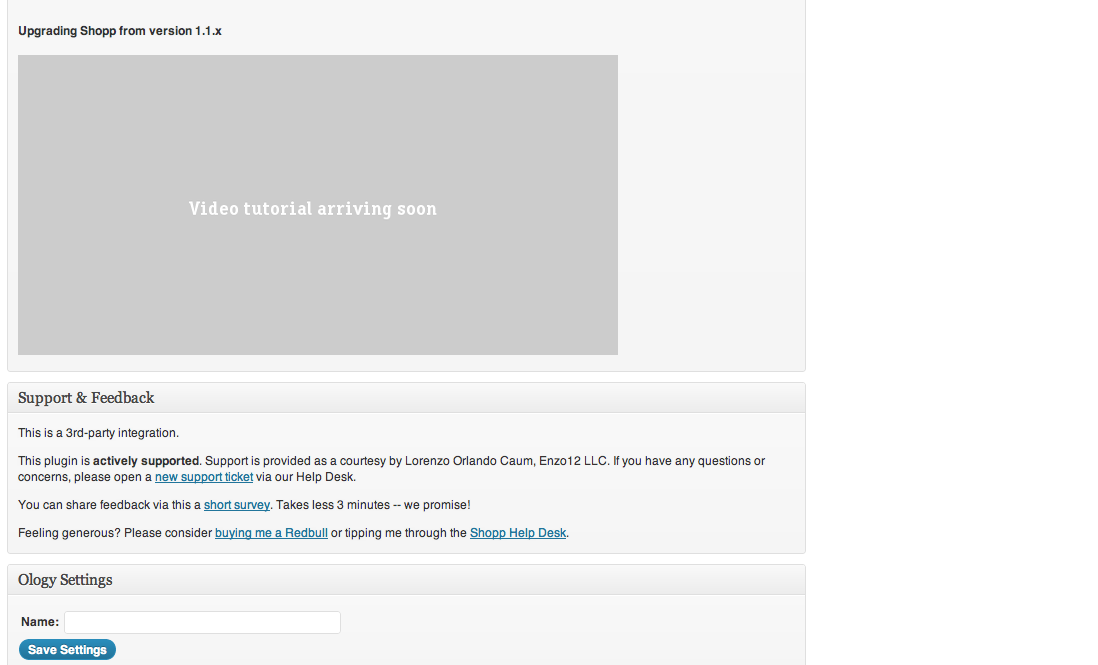
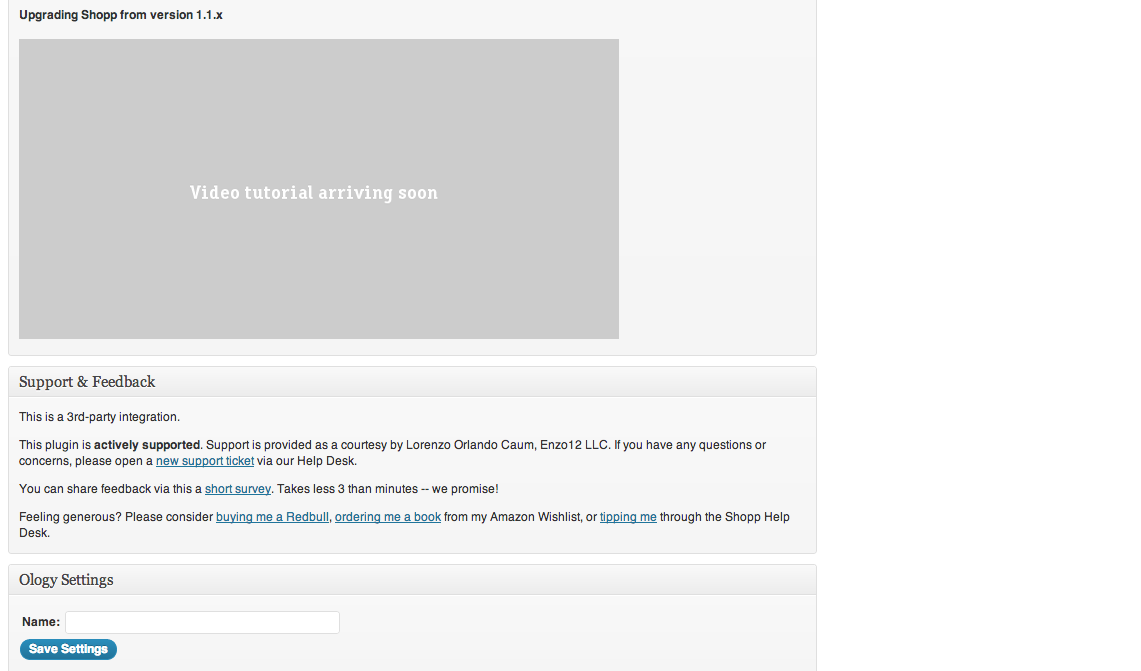
tagging version 1.0.3 of Shopp + Ology
git-svn-id: https://plugins.svn.wordpress.org/shopp-ology/tags/1.0.3@624394 b8457f37-d9ea-0310-8a92-e5e31aec5664

Changed region(s): [[0.0, 0.0, 0.7122, 0.812], [0.0, 0.8421, 0.1239, 0.9925], [0.1548, 0.2707, 0.4026, 0.3308]]

diff --git a/shopp-ology.php b/shopp-ology.php
@@ -2,7 +2,7 @@
 /*
 Plugin Name: Shopp + Ology
 Description: Generate information about your hosting environment to assist with troubleshooting WordPress and Shopp.
-Version: 1.0.2
+Version: 1.0.3
 Plugin URI: http://optimizemyshopp.com
 Author: Lorenzo Orlando Caum, Enzo12 LLC
 Author URI: http://enzo12.com
@@ -42,7 +42,7 @@ class Shopp_Ology {
 	}
 
 	public function init() {
-		wp_enqueue_style( 'shopp-ology-stylesheet', plugins_url( "css/shopp-ology.css", __FILE__ ), array(), '20120725' );
+		wp_enqueue_style( 'shopp-ology-stylesheet', plugins_url( "css/shopp-ology.css", __FILE__ ), array(), '20121101' );
 		
 		add_action('admin_menu', array($this, 'admin_menu'));
 	}
@@ -76,11 +76,10 @@ class Shopp_Ology {
 			<div id="shopp-ology-introduction" class="postbox">
 				<h3 class="hndle"><span>Introduction</span></h3>
 				<div class="inside">
-					<p>This plugin adds an option for generating information about your <a href="http://optimizemyshopp.com/go/shopp/" title="Learn more about Shopp">Shopp</a> and its hosting environment. You can then share this information with your web developer, Shopp consultant, or responding Shopp agent on the Help Desk.</p> 
+					<p>This plugin adds an option for generating information about your <a href="http://optimizemyshopp.com/go/shopp/" title="Learn more about Shopp">Shopp</a> and its hosting environment. You can then share this information with your web developer, Shopp consultant, or responding Shopp team member on the Help Desk.</p>
 					<strong>Acknowledgements</strong>
 					<br />
-					<p>Credit to <a href="http://optimizemyshopp.com/go/adamsewell/" title="Get in touch with Adam">Adam Sewell</a>, <a href="http://optimizemyshopp.com/go/chrisrunnells/" title="Get in touch with Chris">Chris Runnells</a>, and <a href="http://optimizemyshopp.com/go/jonathandavis/" title="Get in touch with Jonathan Davis">Jonathan Davis</a> who answered my questions on how to retrieve certain data via PHP.</p>
-					<p>Credit to Barry Hughes who identified errors in this plugin and developed the groundwork for extending it further. <a href="http://optimizemyshopp.com/go/barryhughes/" title="Get in touch with Barry Hughes">Go to Barry's website</a></p>
+					<p>Credit to <a href="http://optimizemyshopp.com/go/adamsewell/" title="Get in touch with Adam">Adam Sewell</a>, <a href="http://optimizemyshopp.com/go/chrisrunnells/" title="Get in touch with Chris">Chris Runnells</a>, and <a href="http://optimizemyshopp.com/go/jonathandavis/" title="Get in touch with Jonathan">Jonathan Davis</a> who answered my questions on how to retrieve certain data via PHP.</p>
 				</div>
 			</div>
 
@@ -91,7 +90,7 @@ class Shopp_Ology {
     echo ""; 
 	} else {	
 	echo "Hello ". get_option("shopp_ology_name", $this->yourname). "!"; } ?></p> 
-    			<p>Below is information on your hosting environment. The data will be helpful to the responding Shopp agent which will lead to a faster solution for your issue. WIN-WIN!</p>
+    			<p>Below is information on your hosting environment. The data will be helpful to the responding Shopp team member which will lead to a faster solution for your issue. WIN-WIN!</p>
 				<p>If applicable, clear your "cache" once or twice. Then copy and paste the information below into your Shopp support ticket.</p>
 				<p>Notes: Due to the infinite variations from different hosting environments, some information may be inaccurate. However, most of the information reported should be correct.</p> 
 				<textarea style="width:100%; height:675px;">
@@ -223,10 +222,10 @@ Computer: <?php echo $_SERVER['HTTP_USER_AGENT']. "\n"; ?>
 			<div id="shopp-ology-general-settings" class="postbox">
 				<h3 class="hndle"><span>Complimentary Videos</span></h3>
 				<div class="inside">
-				<p>Pro-tip: After starting a video, click on the fullscreen button which appears to the right of the HD logo.</p>
+				<p>Pro-tip: After starting a video, click on the fullscreen button which appears to the right of the HD toggle.</p>
 				<p><strong>Upgrading Shopp from versions 1.2.x</strong><br /><br /><iframe src="http://player.vimeo.com/video/44829218?title=0&amp;byline=0&amp;portrait=0" width="600" height="300" frameborder="0" webkitAllowFullScreen allowFullScreen></iframe></p>
 				<br />
-				<p><strong>Upgrading Shopp from version 1.1.x</strong><br /><br /><img src="http://cdn.optimizemyshopp.com/wp-content/uploads/2012/06/video-tutorial-arriving-soon.gif" width="600" height="300" /></p>
+				<p><strong>Upgrading Shopp from version 1.1.x</strong><br /><br /><img src="<?php echo plugins_url( 'shopp-ology/images/video-tutorial-arriving-soon.gif' , dirname(__FILE__) ); ?>" width="600" height="300" /></p>
 				</div>
 			</div>
 			
@@ -235,22 +234,25 @@ Computer: <?php echo $_SERVER['HTTP_USER_AGENT']. "\n"; ?>
 				<div class="inside">
 				<p>This is a 3rd-party integration.</p> 
 				<p>This plugin is <strong>actively supported</strong>. Support is provided as a courtesy by Lorenzo Orlando Caum, Enzo12 LLC. If you have any questions or concerns, please open a <a href="http://optimizemyshopp.com/support/" title="Open a new support ticket with Optimize My Shopp">new support ticket</a> via our Help Desk.</p>
-				<p>You can share feedback via this a <a href="http://optimizemyshopp.com/go/shopp-extension-feedback/" title="Take a super short survey">short survey</a>. Takes less 3 minutes -- we promise!</p>
-				<p>Feeling generous? Please consider <a href="http://optimizemyshopp.com/go/donate-shopp-ology/">buying me a Redbull</a> or tipping me through the <a href="http://optimizemyshopp.com/go/tip-shopp-help-desk/">Shopp Help Desk</a>.</p>				
+                <p>You can share feedback via this a <a href="http://optimizemyshopp.com/go/shopp-extensions-survey/" title="Take a super short survey">short survey</a>. Takes less 3 than minutes -- we promise!</p>
+                <p>Feeling generous? Please consider <a href="http://optimizemyshopp.com/go/donate-shopp-ology/" title="Say thank you by purchasing Lorenzo a Redbull">buying me a Redbull</a>, <a href="http://optimizemyshopp.com/go/amazonwishlist/" title="Say thank you by gifting Lorenzo a book">ordering me a book</a> from my Amazon Wishlist, or <a href="http://optimizemyshopp.com/go/tip-shopp-help-desk/" title="Say thank you by tipping Lorenzo via the Shopp Help Desk">tipping me</a> through the Shopp Help Desk.</p>
 				</div>
 			</div>
 			
 			<div id="shopp-ology-settings" class="postbox">
 				<h3 class="hndle"><span>Ology Settings</span></h3>
-				<div class="inside"><p>
+				<div class="inside">
+                    <p>
 					<form action="" method="post">
 					<table>
+                    <tr>
 						<th>Name:</th>
 						<td><input type="text" name="yourname" size="35" value="<?php echo $this->yourname; ?>" /></td>
 					</tr>
 					</table>
 					<input type="submit" class="button-primary" value="Save Settings" name="submit" />
-					</form></p>					
+					</form>
+                    </p>
 				</div>
 			</div>
 			
@@ -259,8 +261,11 @@ Computer: <?php echo $_SERVER['HTTP_USER_AGENT']. "\n"; ?>
 				<div class="inside">
 					<table border="0" width="100%">
    					 	<tr>
-     						<td width="70%"><div><img style="padding: 0px 15px 0px 0px; float:left" src="http://cdn.optimizemyshopp.com/wp-content/uploads/2011/09/lorenzo-orlando-caum-shopp-wordpress-150x150.jpg" border="0" alt="Founder of Enzo12 LLC" width="150" height="150"><p><a href="http://twitter.com/lorenzocaum" >@lorenzocaum</a> is an entrepreneur and a marketer. <br /><br />Lorenzo is the founder of Enzo12 LLC, a <a href="http://enzo12.com" title="Enzo12 LLC">web engineering firm</a> <br />in Tampa, FL. He is a graduate from the College of Business at the <br />University of South Florida. <br /><br />Lorenzo contributes to the <a href="http://optimizemyshopp.com/go/shopp/" title="Learn more about Shopp">Shopp</a> project as a customer support rep.<br /><br />He also has a <a href="http://lorenzocaum.com" title="Read Lorenzo's blog">business, marketing, and technology blog</a>.</p></div></td>
-    					  <td width="30%"></td>
+                            <td width="70%"><div><img style="padding: 0px 15px 0px 0px; float:left" src="<?php echo plugins_url( 'shopp-ology/images/lorenzo-orlando-caum-shopp-wordpress-150x150.jpg' , dirname(__FILE__) ); ?>" border="0" alt="Founder of Enzo12 LLC" width="150" height="150">
+                            <p><a href="http://twitter.com/lorenzocaum" title="Follow @lorenzocaum">@lorenzocaum</a> is an entrepreneur and a marketer.</p>
+                            <p>Lorenzo contributes to the <a href="http://optimizemyshopp.com/go/shopp/" title="Visit shopplugin.net">Shopp</a> project as a member of the support team. He has written several  <a href="http://optimizemyshopp.com/resources/#shopp-extensions" title="View free WordPress plugins for Shopp">WordPress extensions for Shopp</a>. His latest project is <a href="http://optimizemyshopp.com/go/shopp101/" title="Shopp 101 -- video tutorials for Shopp">video tutorials for Shopp</a>.</p>
+                            <p>He is the founder of Enzo12 LLC, a <a href="http://enzo12.com" title="Enzo12 LLC">web engineering firm</a> in Tampa, FL. If you would like to know more about Lorenzo, you can <a href="http://twitter.com/lorenzocaum">follow him on Twitter</a> or <a href="http://lorenzocaum.com" title="Read Lorenzo's blog">check out his blog</a>.</p></div></td>
+                            <td width="30%"></td>
    						</tr>
 					</table>
 				</div>
@@ -268,16 +273,17 @@ Computer: <?php echo $_SERVER['HTTP_USER_AGENT']. "\n"; ?>
 
 		</div>
 	</div>
-	
+
 	<div class="postbox-container" style="width:25%;">
-		<div class="metabox-holder">	
+		<div class="metabox-holder">
 			
 			<div id="shopp-ology-donate" class="postbox">
 				<h3 class="hndle"><span><strong>Make a Donation!</strong></span></h3>
 				<div class="inside">
-					<p>Hi friend!</p>
-					<p>If this plugin is helpful to you, then please <a href="http://optimizemyshopp.com/go/donate-shopp-ology/">buy me a Redbull</a>.</p> 
-					<p>You can also tip me through the <a href="http://optimizemyshopp.com/go/tip-shopp-help-desk/">Shopp Help Desk</a>.</p>
+                    <p>Hi friend!</p>
+                    <p>If this plugin is helpful to you, then please <a href="http://optimizemyshopp.com/go/donate-shopp-ology/" title="Say thank you by purchasing Lorenzo a Redbull">buy me a Redbull</a>.</p>
+                    <p>Why not <a href="http://optimizemyshopp.com/go/amazonwishlist/" title="Say thank you by gifting Lorenzo a book">order me a book</a> from my Amazon Wishlist.</p>
+                    <p>You can also <a href="http://optimizemyshopp.com/go/tip-shopp-help-desk/" title="Say thank you by tipping Lorenzo via the Shopp Help Desk">tip me</a> through the Shopp Help Desk.</p>
 					<p>Your kindness is appreciated and will go towards <em>continued development</em> of the Shopp + Ology plugin.</p>
 				</div>
 			</div>
@@ -289,7 +295,6 @@ Computer: <?php echo $_SERVER['HTTP_USER_AGENT']. "\n"; ?>
 					<div id="optin">
 					<p>
 					<form action="http://optimizemyshopp.us2.list-manage1.com/subscribe/post?u=5991854e8288cad7823e23d2e&amp;id=0719c3f096" method="post" target="_blank">
-
 					<input type="text" name="EMAIL" class="email" value="Enter your email" onfocus="if(this.value==this.defaultValue)this.value='';" onblur="if(this.value=='')this.value=this.defaultValue;" />
 					<input name="submit" class="button-primary" type="submit" value="Get Started!" />
 					</form>
@@ -301,7 +306,9 @@ Computer: <?php echo $_SERVER['HTTP_USER_AGENT']. "\n"; ?>
 			<div id="shopp-ology-have-a-question" class="postbox">
 				<h3 class="hndle"><span>Have a Question?</span></h3>
 				<div class="inside">
-					<p>Open a <a href="http://optimizemyshopp.com/support/" title="Open a new support ticket with Optimize My Shopp">new support ticket</a> for Shopp + Ology<br /><br />Learn about <a href="http://optimizemyshopp.com/resources/" title="Learn about extra Shopp resources">additional Shopp resources</a><br /><br />View my post on <a title="How to Get Awesome Support on the Shopp Help Desk" href="http://optimizemyshopp.com/blog/how-to-get-awesome-support-from-the-shopp-help-desk/">getting awesome support</a> through the Shopp Help Desk</p>
+                    <p>Open a <a href="http://optimizemyshopp.com/support/" title="Open a new support ticket with Optimize My Shopp">new support ticket</a> for Shopp + ActiveCampaign</p>
+                    <p>Learn about <a href="http://optimizemyshopp.com/resources/" title="Learn about extra Shopp resources">additional Shopp resources</a></p>
+                    <p>Want awesome support from the Shopp Help Desk? <a title="How to Get Awesome Support on the Shopp Help Desk" href="http://optimizemyshopp.com/blog/how-to-get-awesome-support-from-the-shopp-help-desk/">Click here to read the post</a></p>
 				</div>
 			</div>
 
@@ -311,7 +318,7 @@ Computer: <?php echo $_SERVER['HTTP_USER_AGENT']. "\n"; ?>
 					<p>
 					<ol>
 					<li><strong>Rate it </strong><a href="http://wordpress.org/extend/plugins/shopp-ology/">5 stars on WordPress.org</a></li>
-					<li><strong>Spread social joy</strong> ;)<br />&nbsp;&nbsp;&nbsp;&nbsp;&nbsp;&nbsp;&nbsp;&nbsp;&nbsp;&nbsp;&nbsp;&nbsp;&nbsp;&nbsp;&nbsp;&nbsp;&nbsp;&nbsp;&nbsp;&nbsp;&nbsp;&nbsp;&nbsp;&nbsp;&nbsp;&nbsp;&nbsp;&nbsp;&nbsp;&nbsp;<a href="https://twitter.com/share" class="twitter-share-button" data-url="http://optimizemyshopp.com/blog/" data-text="Shopp + Ology for my #WordPress #ecommerce store" data-count="none" data-via="enzo12llc" data-related="lorenzocaum:entrepreneur">Tweet</a><script type="text/javascript" src="//platform.twitter.com/widgets.js"></script><br /><br /><div id="fb-root"></div>
+					<li><strong>Spread social joy</strong> ;)<br />&nbsp;&nbsp;&nbsp;&nbsp;&nbsp;&nbsp;&nbsp;&nbsp;&nbsp;&nbsp;&nbsp;&nbsp;&nbsp;&nbsp;&nbsp;&nbsp;&nbsp;&nbsp;&nbsp;&nbsp;&nbsp;&nbsp;&nbsp;&nbsp;&nbsp;&nbsp;&nbsp;&nbsp;&nbsp;&nbsp;<a href="https://twitter.com/share" class="twitter-share-button" data-url="http://optimizemyshopp.com" data-text="Shopp + Ology for my #WordPress #ecommerce store" data-count="none" data-via="enzo12llc" data-related="lorenzocaum:entrepreneur">Tweet</a><script type="text/javascript" src="//platform.twitter.com/widgets.js"></script><br /><br /><div id="fb-root"></div>
 					<script>(function(d, s, id) {
  					var js, fjs = d.getElementsByTagName(s)[0];
   					if (d.getElementById(id)) {return;}
@@ -320,8 +327,8 @@ Computer: <?php echo $_SERVER['HTTP_USER_AGENT']. "\n"; ?>
   					fjs.parentNode.insertBefore(js, fjs);
 					}(document, 'script', 'facebook-jssdk'));</script>
 
-					<div class="fb-like" data-href="http://facebook.com/enzo12llc" data-send="false" data-layout="button_count" data-width="5" data-show-faces="false" data-font="lucida grande">&nbsp;&nbsp;&nbsp;&nbsp;&nbsp;&nbsp;&nbsp;&nbsp;&nbsp;&nbsp;&nbsp;&nbsp;&nbsp;&nbsp;&nbsp;&nbsp;&nbsp;&nbsp;&nbsp;&nbsp;&nbsp;&nbsp;&nbsp;&nbsp;&nbsp;&nbsp;&nbsp;&nbsp;&nbsp;&nbsp;</div><br /><br /> <!-- Place this tag where you want the +1 button to render -->
-					&nbsp;&nbsp;&nbsp;&nbsp;&nbsp;&nbsp;&nbsp;&nbsp;&nbsp;&nbsp;&nbsp;&nbsp;&nbsp;&nbsp;&nbsp;&nbsp;&nbsp;&nbsp;&nbsp;&nbsp;&nbsp;&nbsp;&nbsp;&nbsp;&nbsp;&nbsp;&nbsp;&nbsp;&nbsp;&nbsp;<div class="g-plusone" data-annotation="inline" data-width="120" data-href="http://optimizemyshopp.com/blog/"></div>
+					<div class="fb-like" data-href="http://optimizemyshopp.com" data-send="false" data-layout="button_count" data-width="5" data-show-faces="false" data-font="lucida grande">&nbsp;&nbsp;&nbsp;&nbsp;&nbsp;&nbsp;&nbsp;&nbsp;&nbsp;&nbsp;&nbsp;&nbsp;&nbsp;&nbsp;&nbsp;&nbsp;&nbsp;&nbsp;&nbsp;&nbsp;&nbsp;&nbsp;&nbsp;&nbsp;&nbsp;&nbsp;&nbsp;&nbsp;&nbsp;&nbsp;</div><br /><br /> <!-- Place this tag where you want the +1 button to render -->
+					&nbsp;&nbsp;&nbsp;&nbsp;&nbsp;&nbsp;&nbsp;&nbsp;&nbsp;&nbsp;&nbsp;&nbsp;&nbsp;&nbsp;&nbsp;&nbsp;&nbsp;&nbsp;&nbsp;&nbsp;&nbsp;&nbsp;&nbsp;&nbsp;&nbsp;&nbsp;&nbsp;&nbsp;&nbsp;&nbsp;<div class="g-plusone" data-annotation="inline" data-width="120" data-href="http://optimizemyshopp.com"></div>
 
 					<!-- Place this render call where appropriate -->
 					<script type="text/javascript">
@@ -330,8 +337,8 @@ Computer: <?php echo $_SERVER['HTTP_USER_AGENT']. "\n"; ?>
     				po.src = 'https://apis.google.com/js/plusone.js';
     				var s = document.getElementsByTagName('script')[0]; s.parentNode.insertBefore(po, s);
   					})();
-					</script></li><li><strong>Express your kindness</strong> with a <a href="http://optimizemyshopp.com/go/donate-shopp-ology/">donation</a>
-					</li>
+					</script></li>
+                    <li><strong>Express your kindness</strong> with a <a href="http://optimizemyshopp.com/go/donate-shopp-ology/">donation</a></li>
 					</ol>
 					</p>		 
 				</div>
@@ -368,8 +375,8 @@ Computer: <?php echo $_SERVER['HTTP_USER_AGENT']. "\n"; ?>
 			<div id="shopp-ology-recommendations" class="postbox">
 				<h3 class="hndle"><span>Recommended</span></h3>
 				<div class="inside">
-					<p>Want a better WordPress e-commerce site? <br /><br />You should order a WordPress e-commerce site analysis today! <a href="http://optimizemyshopp.com/store/wordpress-ecommerce-site-analysis/" title="Learn more about our site review">Get more information now</a></p>
-					<p>What do you think about video tutorials for Shopp? <a href="http://shoppcreators.com" title="Learn more about Shopp video tutorials">Request an invite</a></p>
+                    <p>Need a Shopp developer to help you with your online store? <br /><a href="http://optimizemyshopp.com/store/wordpress-consulting/" title="Hire a Shopp developer today">Get in touch today</a></p>
+                    <p>What do you think about video tutorials for Shopp? <br /><a href="http://optimizemyshopp.com/go/shopp101/" title="Learn more about Shopp video tutorials">Request an invite</a></p>
 				</div>
 			</div>
 
